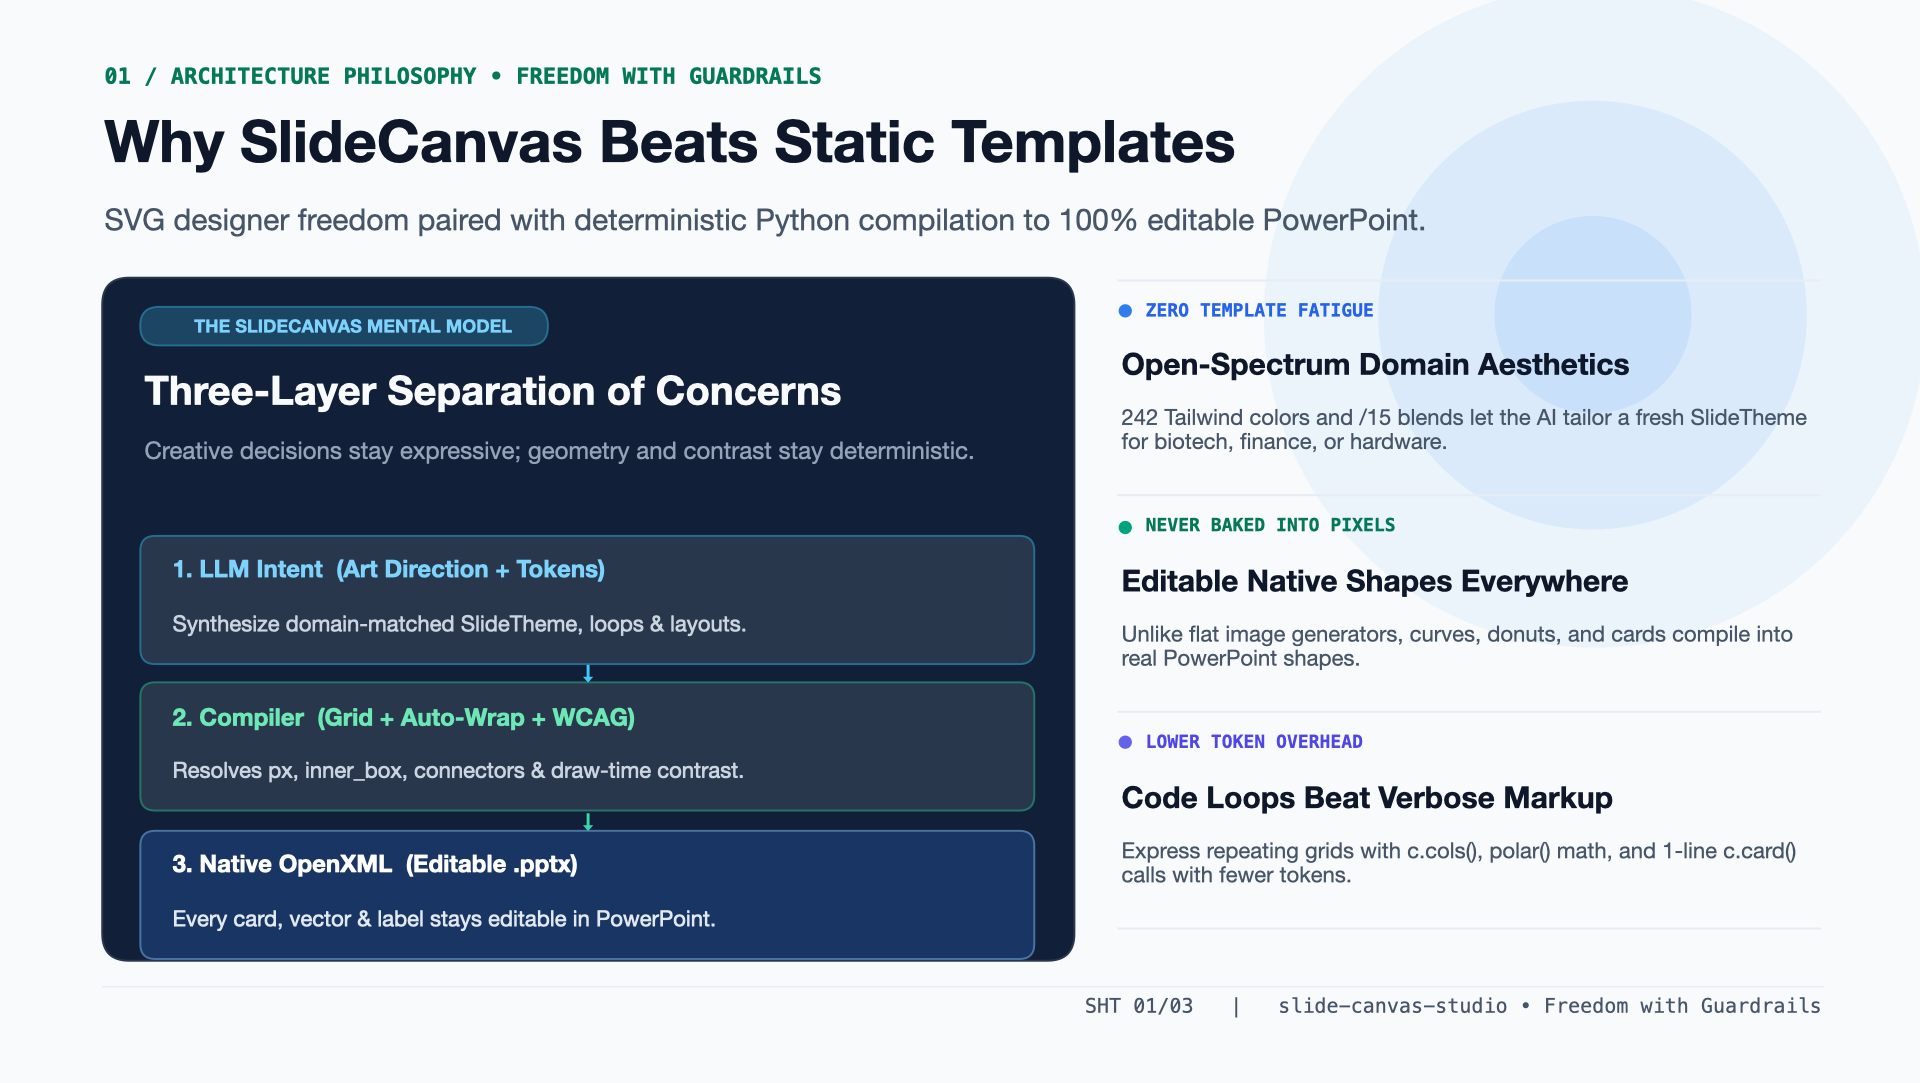
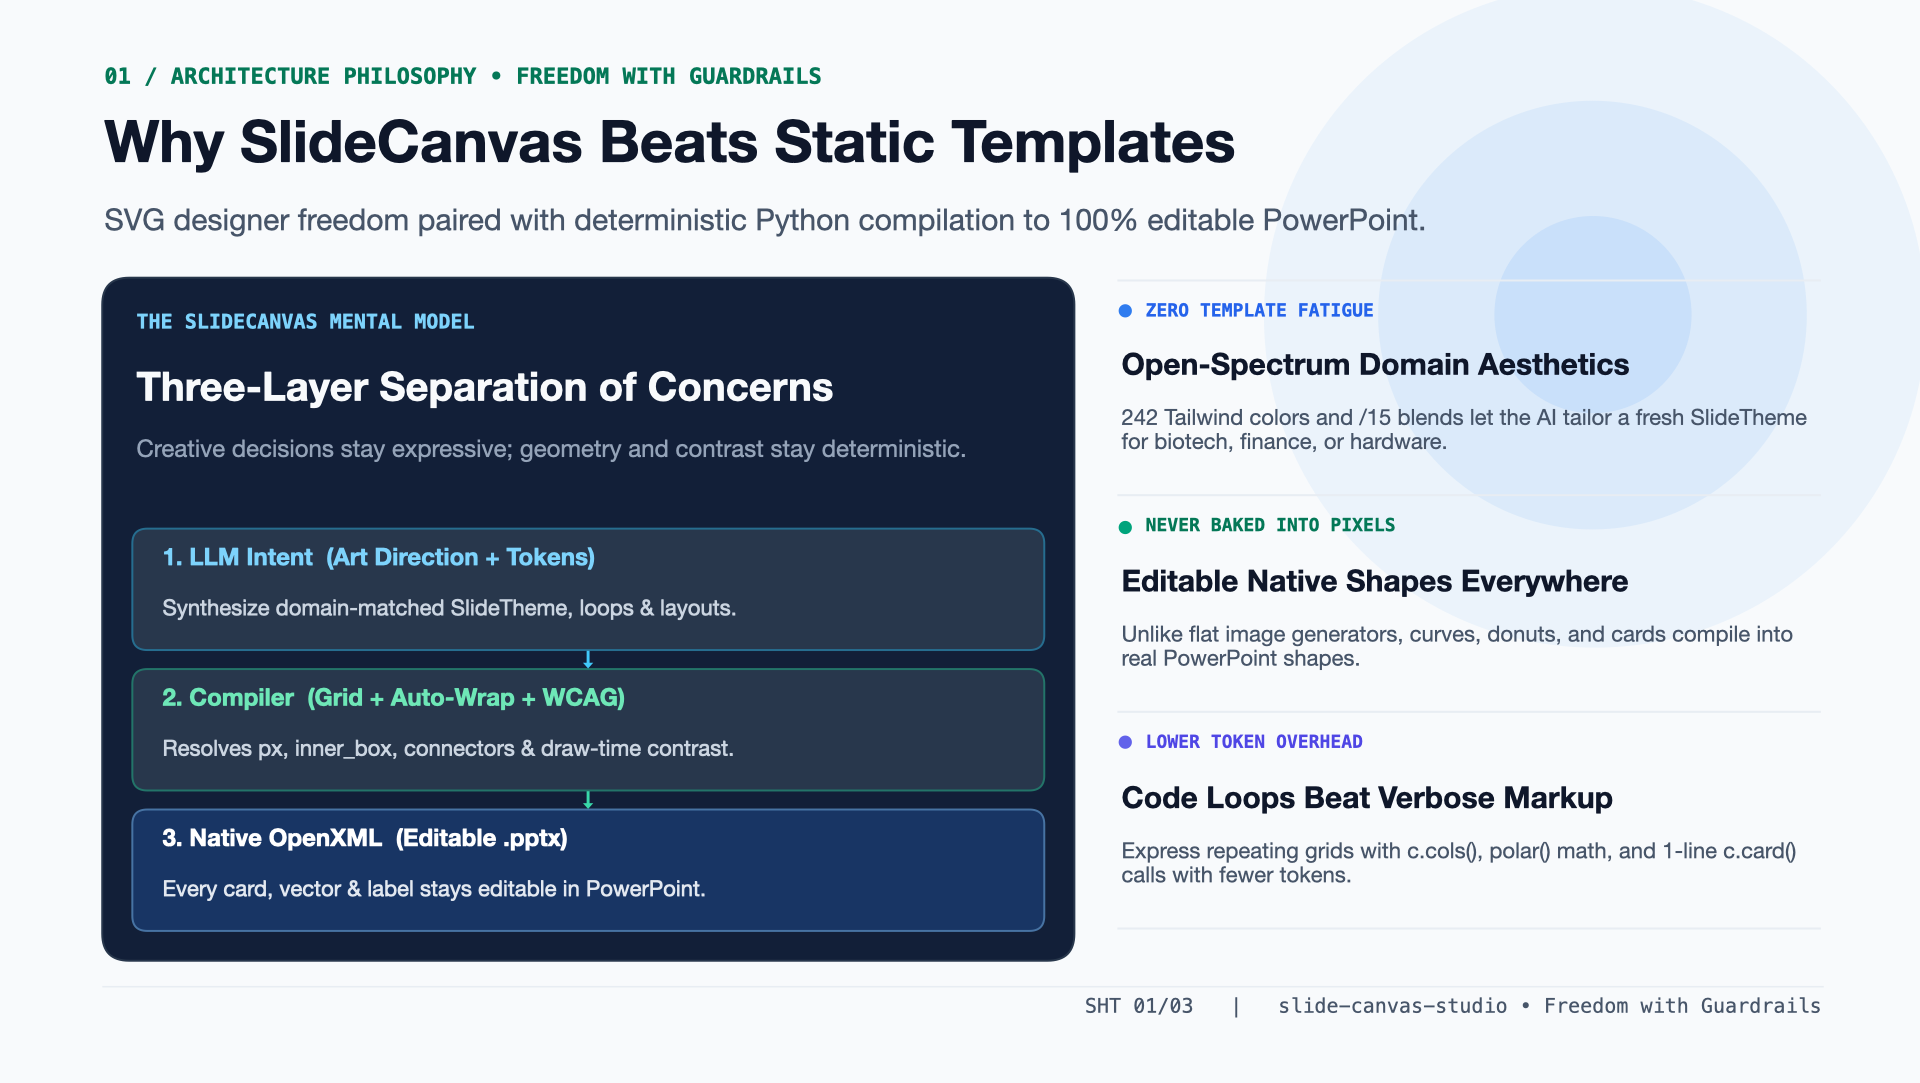
fix(canvas,layout): zero vertical inset for centered shapes & tighten container margin check

Changed region(s): [[0.0625, 0.4875, 0.5625, 0.8837], [0.0625, 0.2742, 0.5, 0.4266]]

diff --git a/scripts/slide_canvas.py b/scripts/slide_canvas.py
@@ -689,7 +689,10 @@ class SlideCanvas(VectorPrimitivesMixin):
         shp.name = name or (f"box_{idx}" if str(text).strip() else f"card_bg_{idx}")
         if rx_px > 0 and min(w, h) > 0:
             shp.adjustments[0] = min(0.49, float(rx_px) / min(w, h))
-        v_pad = pad_px if pad_v_px is None else pad_v_px
+        if pad_v_px is None:
+            v_pad = 0.0 if valign.lower() in ("middle", "center") else pad_px
+        else:
+            v_pad = pad_v_px
         return self._finalize_shape_fill_and_text(
             shp, x, y, w, h, fill, stroke, text, size, color, bold, align, valign, font, role, pad_px, v_pad, id
         )
@@ -758,7 +761,7 @@ class SlideCanvas(VectorPrimitivesMixin):
         idx = self._next_id()
         shp.name = name or (f"circle_{idx}" if str(text).strip() else f"dot_{idx}")
         return self._finalize_shape_fill_and_text(
-            shp, bx, by, bw, bh, fill, stroke, text, size, color, bold, "center", "middle", font, role, 4.0, 4.0, id
+            shp, bx, by, bw, bh, fill, stroke, text, size, color, bold, "center", "middle", font, role, 4.0, 0.0, id
         )
 
     def glow(self, cx: float, cy: float, r: float, color: str = "accent@0.09", rings: int = 2):

diff --git a/scripts/dump_slide_layout.py b/scripts/dump_slide_layout.py
@@ -247,7 +247,7 @@ def dump_slide_layout(pptx_path: str, slide_num: int, out_json: str = None) -> d
             parent = min(enclosing, key=lambda c: c["w_cm"] * c["h_cm"])
             eff_bottom = max(el["bottom_cm"], round(el["y_cm"] + el["estimated_text_h_cm"], 3))
             if (
-                eff_bottom > parent["bottom_cm"] - 0.04
+                eff_bottom > parent["bottom_cm"] - 0.15
                 or el["right_cm"] > parent["right_cm"] + 0.05
                 or el["x_cm"] < parent["x_cm"] - 0.05
                 or el["y_cm"] < parent["y_cm"] - 0.05

diff --git a/README.md b/README.md
@@ -16,15 +16,15 @@ Zero binary dependencies · CJK-aware typography · WCAG contrast guard · Dual 
 <table>
   <tr>
     <td width="33%" align="center">
-      <img src="assets/slide-1.png?v=3" alt="Why SlideCanvas Beats Static Templates" width="100%" /><br />
+      <img src="assets/slide-1.png?v=4" alt="Why SlideCanvas Beats Static Templates" width="100%" /><br />
       <sub><b>01 · Freedom with Guardrails</b></sub>
     </td>
     <td width="33%" align="center">
-      <img src="assets/slide-2.png?v=3" alt="Deterministic Framing &amp; Draw-Time WCAG Guard" width="100%" /><br />
+      <img src="assets/slide-2.png?v=4" alt="Deterministic Framing &amp; Draw-Time WCAG Guard" width="100%" /><br />
       <sub><b>02 · Precision Without Fragility</b></sub>
     </td>
     <td width="33%" align="center">
-      <img src="assets/slide-3.png?v=3" alt="Modular Engine &amp; Automated Verification Gate" width="100%" /><br />
+      <img src="assets/slide-3.png?v=4" alt="Modular Engine &amp; Automated Verification Gate" width="100%" /><br />
       <sub><b>03 · Built to Scale</b></sub>
     </td>
   </tr>
